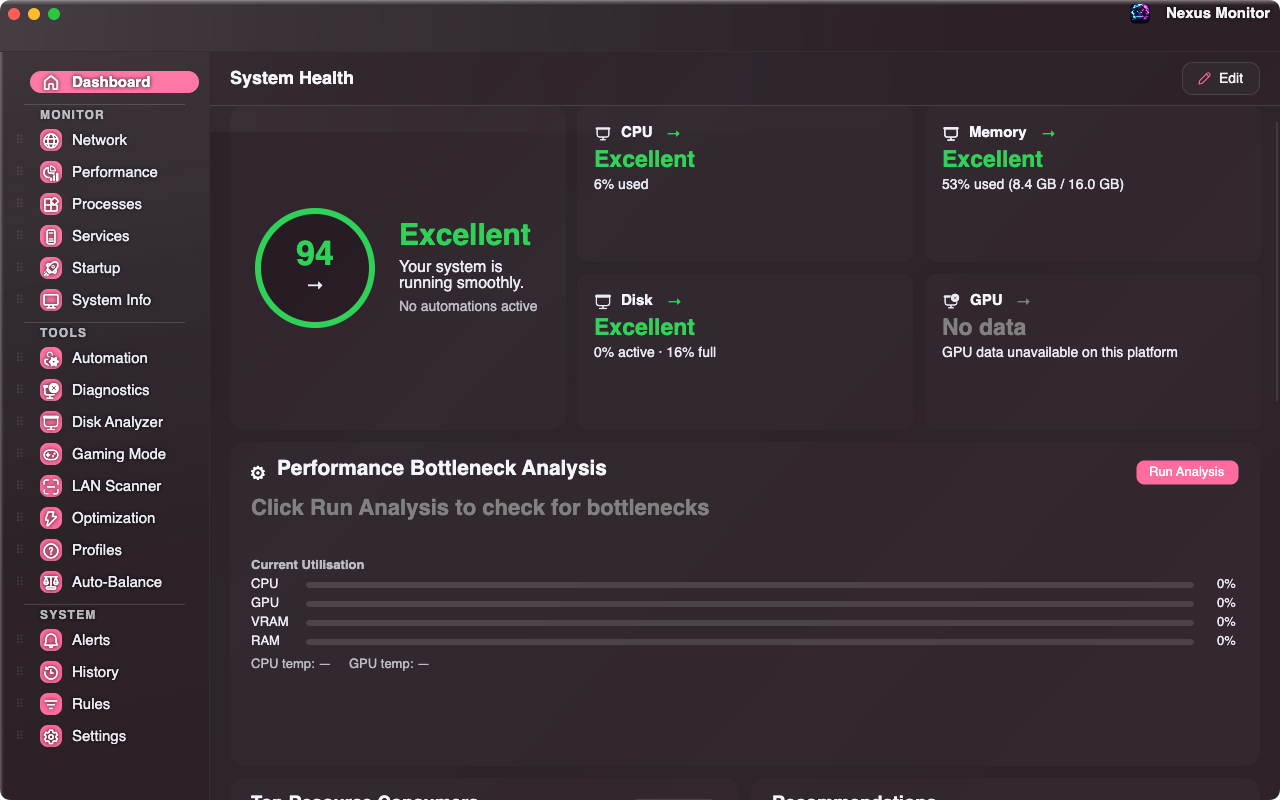
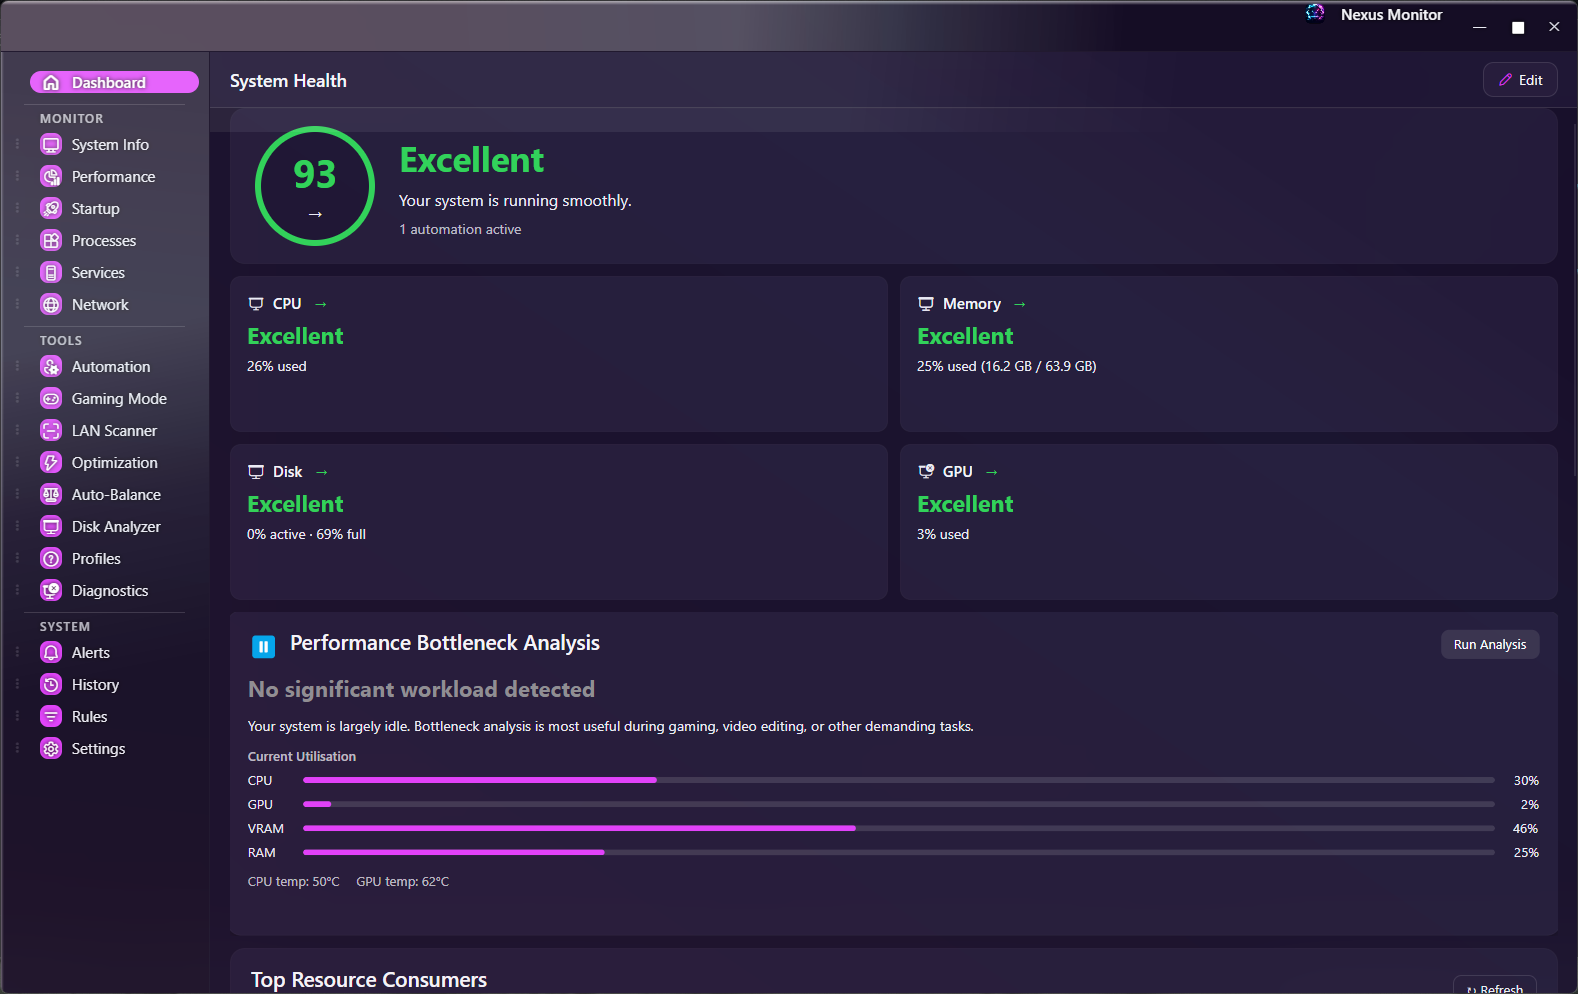
docs(screenshots): expand README gallery to 6 PII-free marketing screenshots

diff --git a/README.md b/README.md
@@ -20,22 +20,31 @@ Your process tuner only runs on one OS. Your disk analyzer is a separate downloa
 
 ## Screenshots
 
-*System Health Dashboard — Crystal Glass dark theme (macOS)*
+*System Health Dashboard: overall health score, subsystem cards, and live bottleneck analysis*
 
 ![System Health Dashboard](docs/screenshots/dashboard-dark.png)
 
-*Process list with per-user visibility and live impact metrics*
+*Performance view: CPU, Memory, Disk I/O, and Network sparklines paired with a 16-core usage heatmap*
+
+![Performance](docs/screenshots/performance-dark.png)
+
+*Process Management: real-time per-process CPU, memory, impact score, priority, thread, and handle metrics*
 
 ![Processes](docs/screenshots/processes-dark.png)
 
-See the [Releases](https://github.com/joshuadsutcliff/nexus-system-monitor/releases) page for download links.
+*Services Manager: system service states, startup types, host PIDs, accounts, and binary paths*
 
-<!-- TODO: More screenshots to add:
-  - Dashboard edit mode (drag/resize widgets, widget gallery, pop-out windows)
-  - Crystal Glass theme light
-  - Theme customization panel
-  - Side-by-side: Windows / macOS / Linux
--->
+![Services](docs/screenshots/services-dark.png)
+
+*Disk Analyzer and Snapshot Compare: folder growth deltas and interactive space treemap*
+
+![Disk Snapshots](docs/screenshots/snapshots-dark.png)
+
+*Appearance and Theme Engine: theme presets, typography scaling, and custom accent color swatches*
+
+![Themes](docs/screenshots/themes-dark.png)
+
+See the [Releases](https://github.com/joshuadsutcliff/nexus-system-monitor/releases) page for download links.
 
 ---
 
